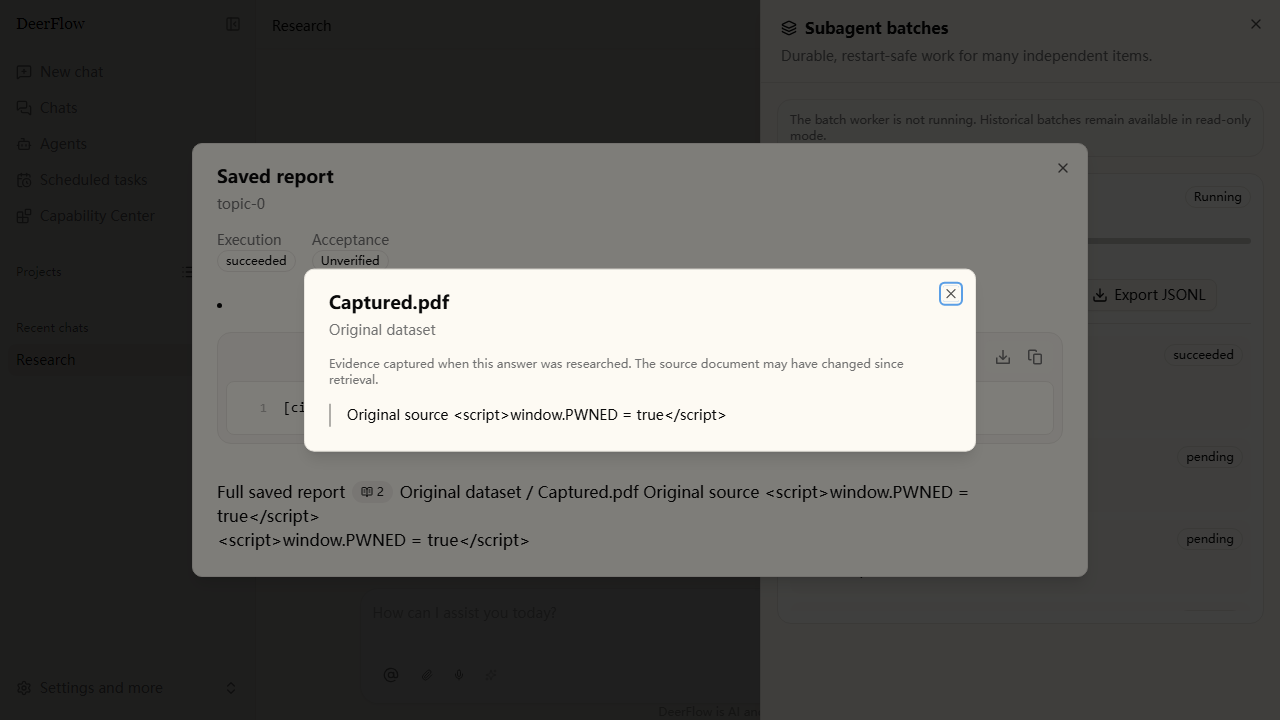
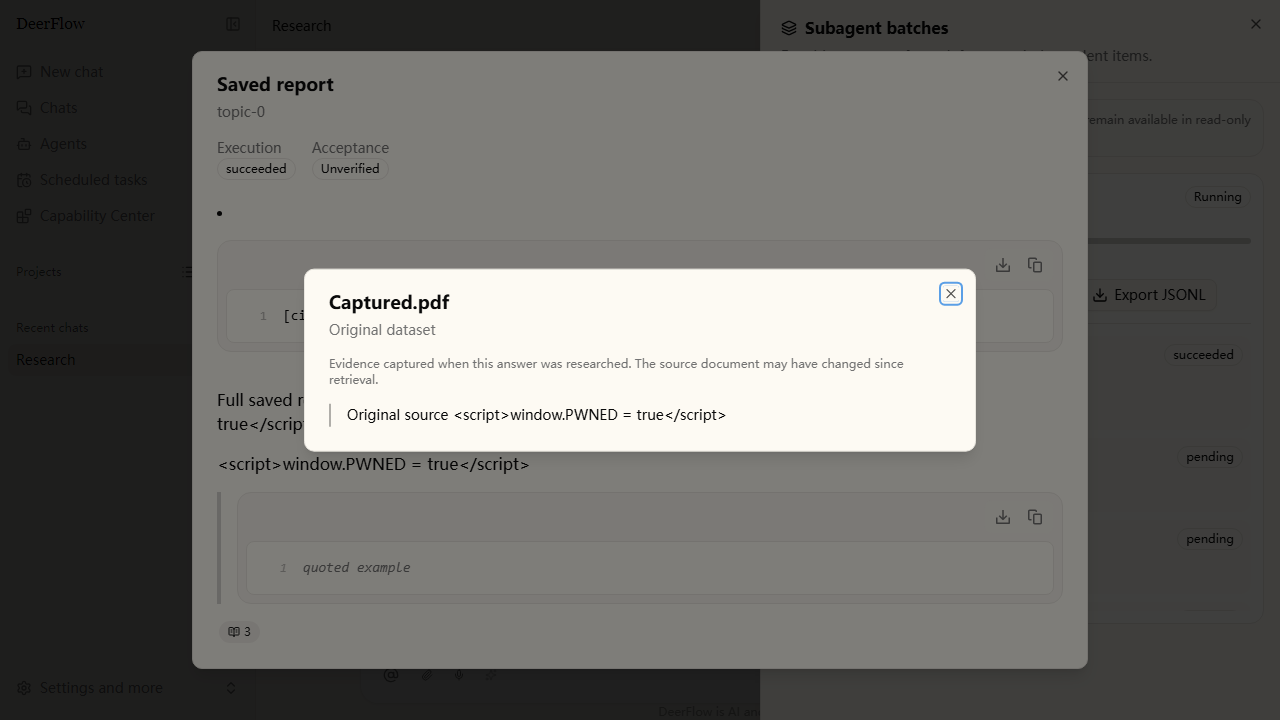
fix(batch): reject blank evidence and cover quoted code fences

diff --git a/frontend/tests/unit/components/workspace/citations/knowledge-source.dom.test.tsx b/frontend/tests/unit/components/workspace/citations/knowledge-source.dom.test.tsx
@@ -130,6 +130,29 @@ for (const [surface, Link] of [
 }
 
 describe("saved batch evidence", () => {
+  for (const field of ["dataset_name", "document_name", "text"]) {
+    for (const value of ["", " \n"]) {
+      it(`rejects a blank saved ${field} instead of opening an unnamed or empty source`, () => {
+        const original = Reflect.get(messages[0]!, "artifact").knowledge_sources
+          .sources[0];
+        render(
+          <I18nProvider initialLocale="en-US">
+            <KnowledgeSourcesProvider
+              savedEvidence={{
+                version: 1,
+                sources: [{ ...original, [field]: value }],
+              }}
+            >
+              <KnowledgeCitationLink href={href}>1</KnowledgeCitationLink>
+              <KnowledgeSourcesPanel content={`[citation:1](${href})`} />
+            </KnowledgeSourcesProvider>
+          </I18nProvider>,
+        );
+        expect(screen.queryByRole("button")).toBeNull();
+        expect(screen.queryByRole("dialog")).toBeNull();
+      });
+    }
+  }
   it("uses an explicit saved snapshot without borrowing conversation sources", () => {
     const evidence = Reflect.get(messages[0]!, "artifact").knowledge_sources;
     const view = render(

diff --git a/frontend/tests/e2e/batch-results.spec.ts b/frontend/tests/e2e/batch-results.spec.ts
@@ -138,12 +138,19 @@ for (const custom of [false, true]) {
       const report = page.getByTestId("batch-saved-report");
       await expect(report).toContainText("Full saved report");
       await expect(report).toContainText("Unverified");
-      await expect(report.locator("code")).toContainText("[citation:1]");
-      const citation = page.getByRole("button", {
+      await expect(
+        report.locator("code").filter({ hasText: "[citation:1]" }),
+      ).toHaveCount(1);
+      const citations = page.getByRole("button", {
         name: "View source: Captured.pdf",
       });
-      await expect(citation).toHaveCount(1);
+      await expect(citations).toHaveCount(2);
+      const citation = citations.first();
       await expect(citation).toContainText("2");
+      await expect(citations.last()).toContainText("3");
+      await expect(
+        report.locator("code").filter({ hasText: "quoted example" }),
+      ).toHaveCount(1);
       const dialog = page.getByRole("dialog").last();
       const bounds = await dialog.boundingBox();
       expect(bounds?.width).toBeLessThanOrEqual(mobile ? 390 : 896);

diff --git a/frontend/src/core/knowledge/sources.ts b/frontend/src/core/knowledge/sources.ts
@@ -65,10 +65,13 @@ function appendKnowledgeSources(
       continue;
     if (
       typeof raw.document_name !== "string" ||
+      !raw.document_name.trim() ||
       raw.document_name.length > 1024 ||
       typeof raw.dataset_name !== "string" ||
+      !raw.dataset_name.trim() ||
       raw.dataset_name.length > 1024 ||
       typeof raw.text !== "string" ||
+      !raw.text.trim() ||
       raw.text.length > 200_000 ||
       typeof raw.truncated !== "boolean" ||
       !Array.isArray(raw.pages) ||

diff --git a/backend/tests/test_batch_result_projection.py b/backend/tests/test_batch_result_projection.py
@@ -73,7 +73,25 @@ def test_legacy_and_unsupported_evidence_remains_unavailable(storage, artifact):
     assert result["result"] == storage.row["result"] and result["evidence"] is None
 
 
-@pytest.mark.parametrize("updates", [{"id": "malformed"}, {"provider": "other"}, {"dataset_id": ""}, {"document_name": "a" * 513}, {"pages": [True]}, {"pages": [-1]}, {"truncated": "false"}, {"text": None}])
+@pytest.mark.parametrize(
+    "updates",
+    [
+        {"id": "malformed"},
+        {"provider": "other"},
+        {"dataset_id": ""},
+        {"dataset_name": ""},
+        {"document_name": ""},
+        {"text": ""},
+        {"dataset_name": " "},
+        {"document_name": "\n"},
+        {"text": "\t"},
+        {"document_name": "a" * 513},
+        {"pages": [True]},
+        {"pages": [-1]},
+        {"truncated": "false"},
+        {"text": None},
+    ],
+)
 def test_invalid_source_records_are_not_exposed(storage, updates):
     storage.row["result_artifact"]["knowledge_sources"]["sources"] = [source(**updates)]
     result = project_batch_result(storage.row)

diff --git a/backend/packages/harness/deerflow/subagents/batch_results.py b/backend/packages/harness/deerflow/subagents/batch_results.py
@@ -33,9 +33,9 @@ def _evidence(value: object, report: str) -> dict[str, Any] | None:
             continue
         if raw.get("provider") != "ragflow" or not all(isinstance(raw.get(key), str) for key in _SOURCE_FIELDS[:8]):
             continue
-        if any(not 0 < len(raw[key]) <= 256 for key in ("dataset_id", "document_id", "chunk_id")) or any(len(raw[key]) > 512 for key in ("dataset_name", "document_name")):
+        if any(not 0 < len(raw[key]) <= 256 for key in ("dataset_id", "document_id", "chunk_id")) or any(not raw[key].strip() or len(raw[key]) > 512 for key in ("dataset_name", "document_name")):
             continue
-        if len(raw["text"]) > 200_000:
+        if not raw["text"].strip() or len(raw["text"]) > 200_000:
             continue
         pages = raw.get("pages")
         if not isinstance(pages, list) or len(pages) > 100 or any(type(page) is not int or not 1 <= page <= 1_000_000 for page in pages) or type(raw.get("truncated")) is not bool:

diff --git a/backend/extension_test_fixtures/batch_results_gateway.py b/backend/extension_test_fixtures/batch_results_gateway.py
@@ -51,6 +51,7 @@ async def create_app(directory):
     )
     source_id = artifact["knowledge_sources"]["sources"][0]["id"]
     report = f"- ~~~\n  [citation:1](#knowledge-{source_id})\n  ~~~\n\nFull saved report\n" + report.replace("[citation:1]", "[citation:2]") + "\n<script>window.PWNED = true</script>"
+    report += f"\n\n> ~~~\n> quoted example\n\n[citation:3](#knowledge-{source_id})"
     snapshot = durable_source_artifact([{"type": "tool", "name": "knowledge_search", "artifact": artifact}], report, max_chars=100_000)
     await repository.finalize_item(
         claimed[0]["id"],
